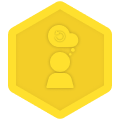
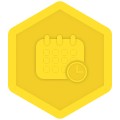
Added new assets for 2 new types of quests. Updated shared constants to include baseline quest exp and baseline master quest exp

Changed region(s): [[0.35, 0.25, 0.675, 0.7]]

diff --git a/packages/constants/constants.ts b/packages/constants/constants.ts
@@ -56,6 +56,10 @@ export const MODULE_UNIT_COMPLETION_REWARDS = {
   SECOND_COMPLETION: 25,
   SUBSEQUENT_COMPLETIONS: 0,
 }
+// Quest completion reward (fixed) for baseline quests.
+export const QUEST_COMPLETION_REWARD = 50;
+// Master Quest completion reward (fixed) for completing all quests in a day.
+export const MASTER_QUEST_COMPLETION_REWARD = 250;
 
 export type MODULE_UNIT_COMPLETION_REWARD = typeof MODULE_UNIT_COMPLETION_REWARDS[keyof typeof MODULE_UNIT_COMPLETION_REWARDS];
 
